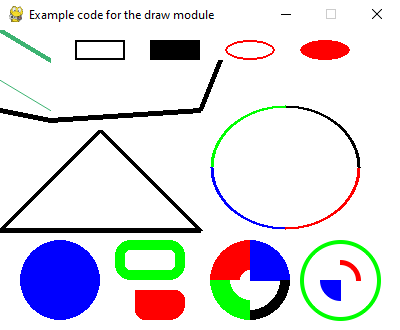
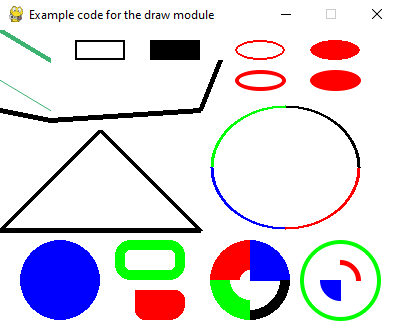
Code examples

diff --git a/docs/reST/ref/code_examples/draw_module_example.py b/docs/reST/ref/code_examples/draw_module_example.py
@@ -60,15 +60,15 @@ while not done:
     )
 
     # Draw an ellipse outline, using a rectangle as the outside boundaries
-    pygame.draw.ellipse(screen, "red", [225, 10, 50, 20], 2)
+    pygame.draw.ellipse(screen, "red", [235, 10, 50, 20], 2)
 
     # Draw an solid ellipse, using a rectangle as the outside boundaries
-    pygame.draw.ellipse(screen, "red", [300, 10, 50, 20])
+    pygame.draw.ellipse(screen, "red", [310, 10, 50, 20])
 
     # Draw an antialiased ellipse, using a rectangle as the outside boundaries
-    pygame.draw.ellipse(screen, "green", [230, 95, 110, 85], 3)
+    pygame.draw.aaellipse(screen, "red", [235, 40, 50, 20], 3)
     # Draw an antialiased filled ellipse, using a rectangle as the outside boundaries
-    pygame.draw.ellipse(screen, "red", [250, 115, 70, 45], 3)
+    pygame.draw.aaellipse(screen, "red", [310, 40, 50, 20])
 
     # This draws a triangle using the polygon command
     pygame.draw.polygon(screen, "black", [[100, 100], [0, 200], [200, 200]], 5)
